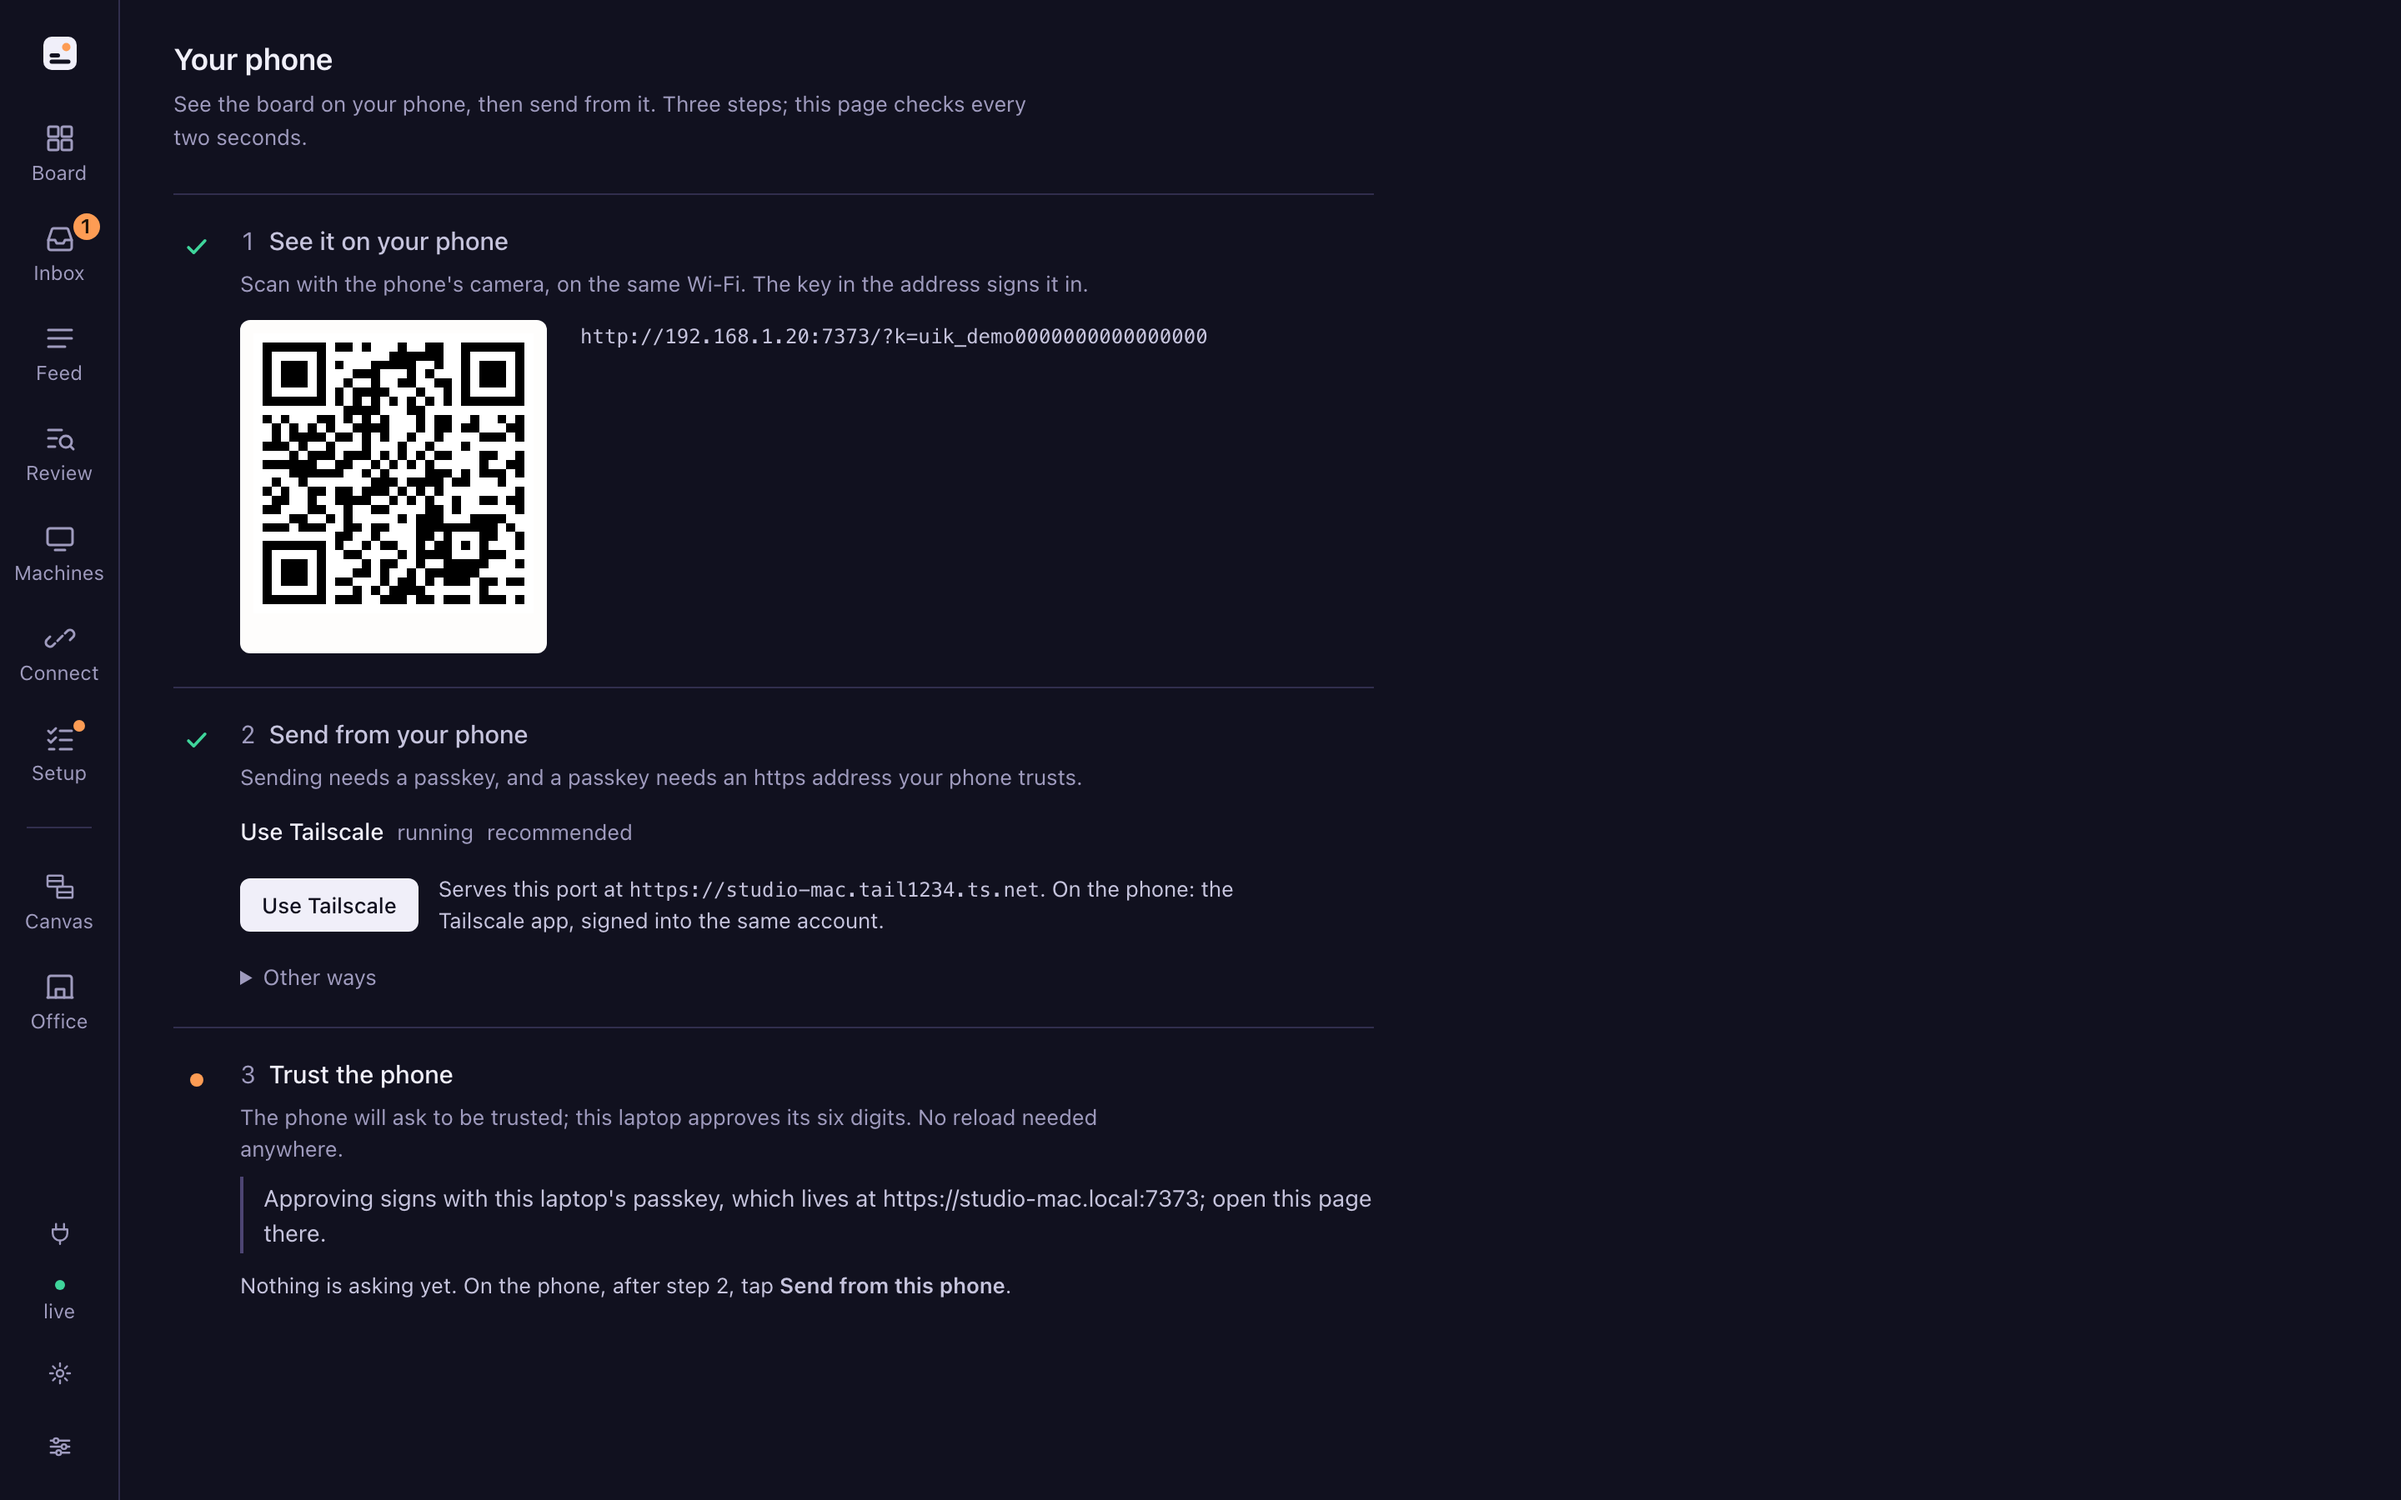
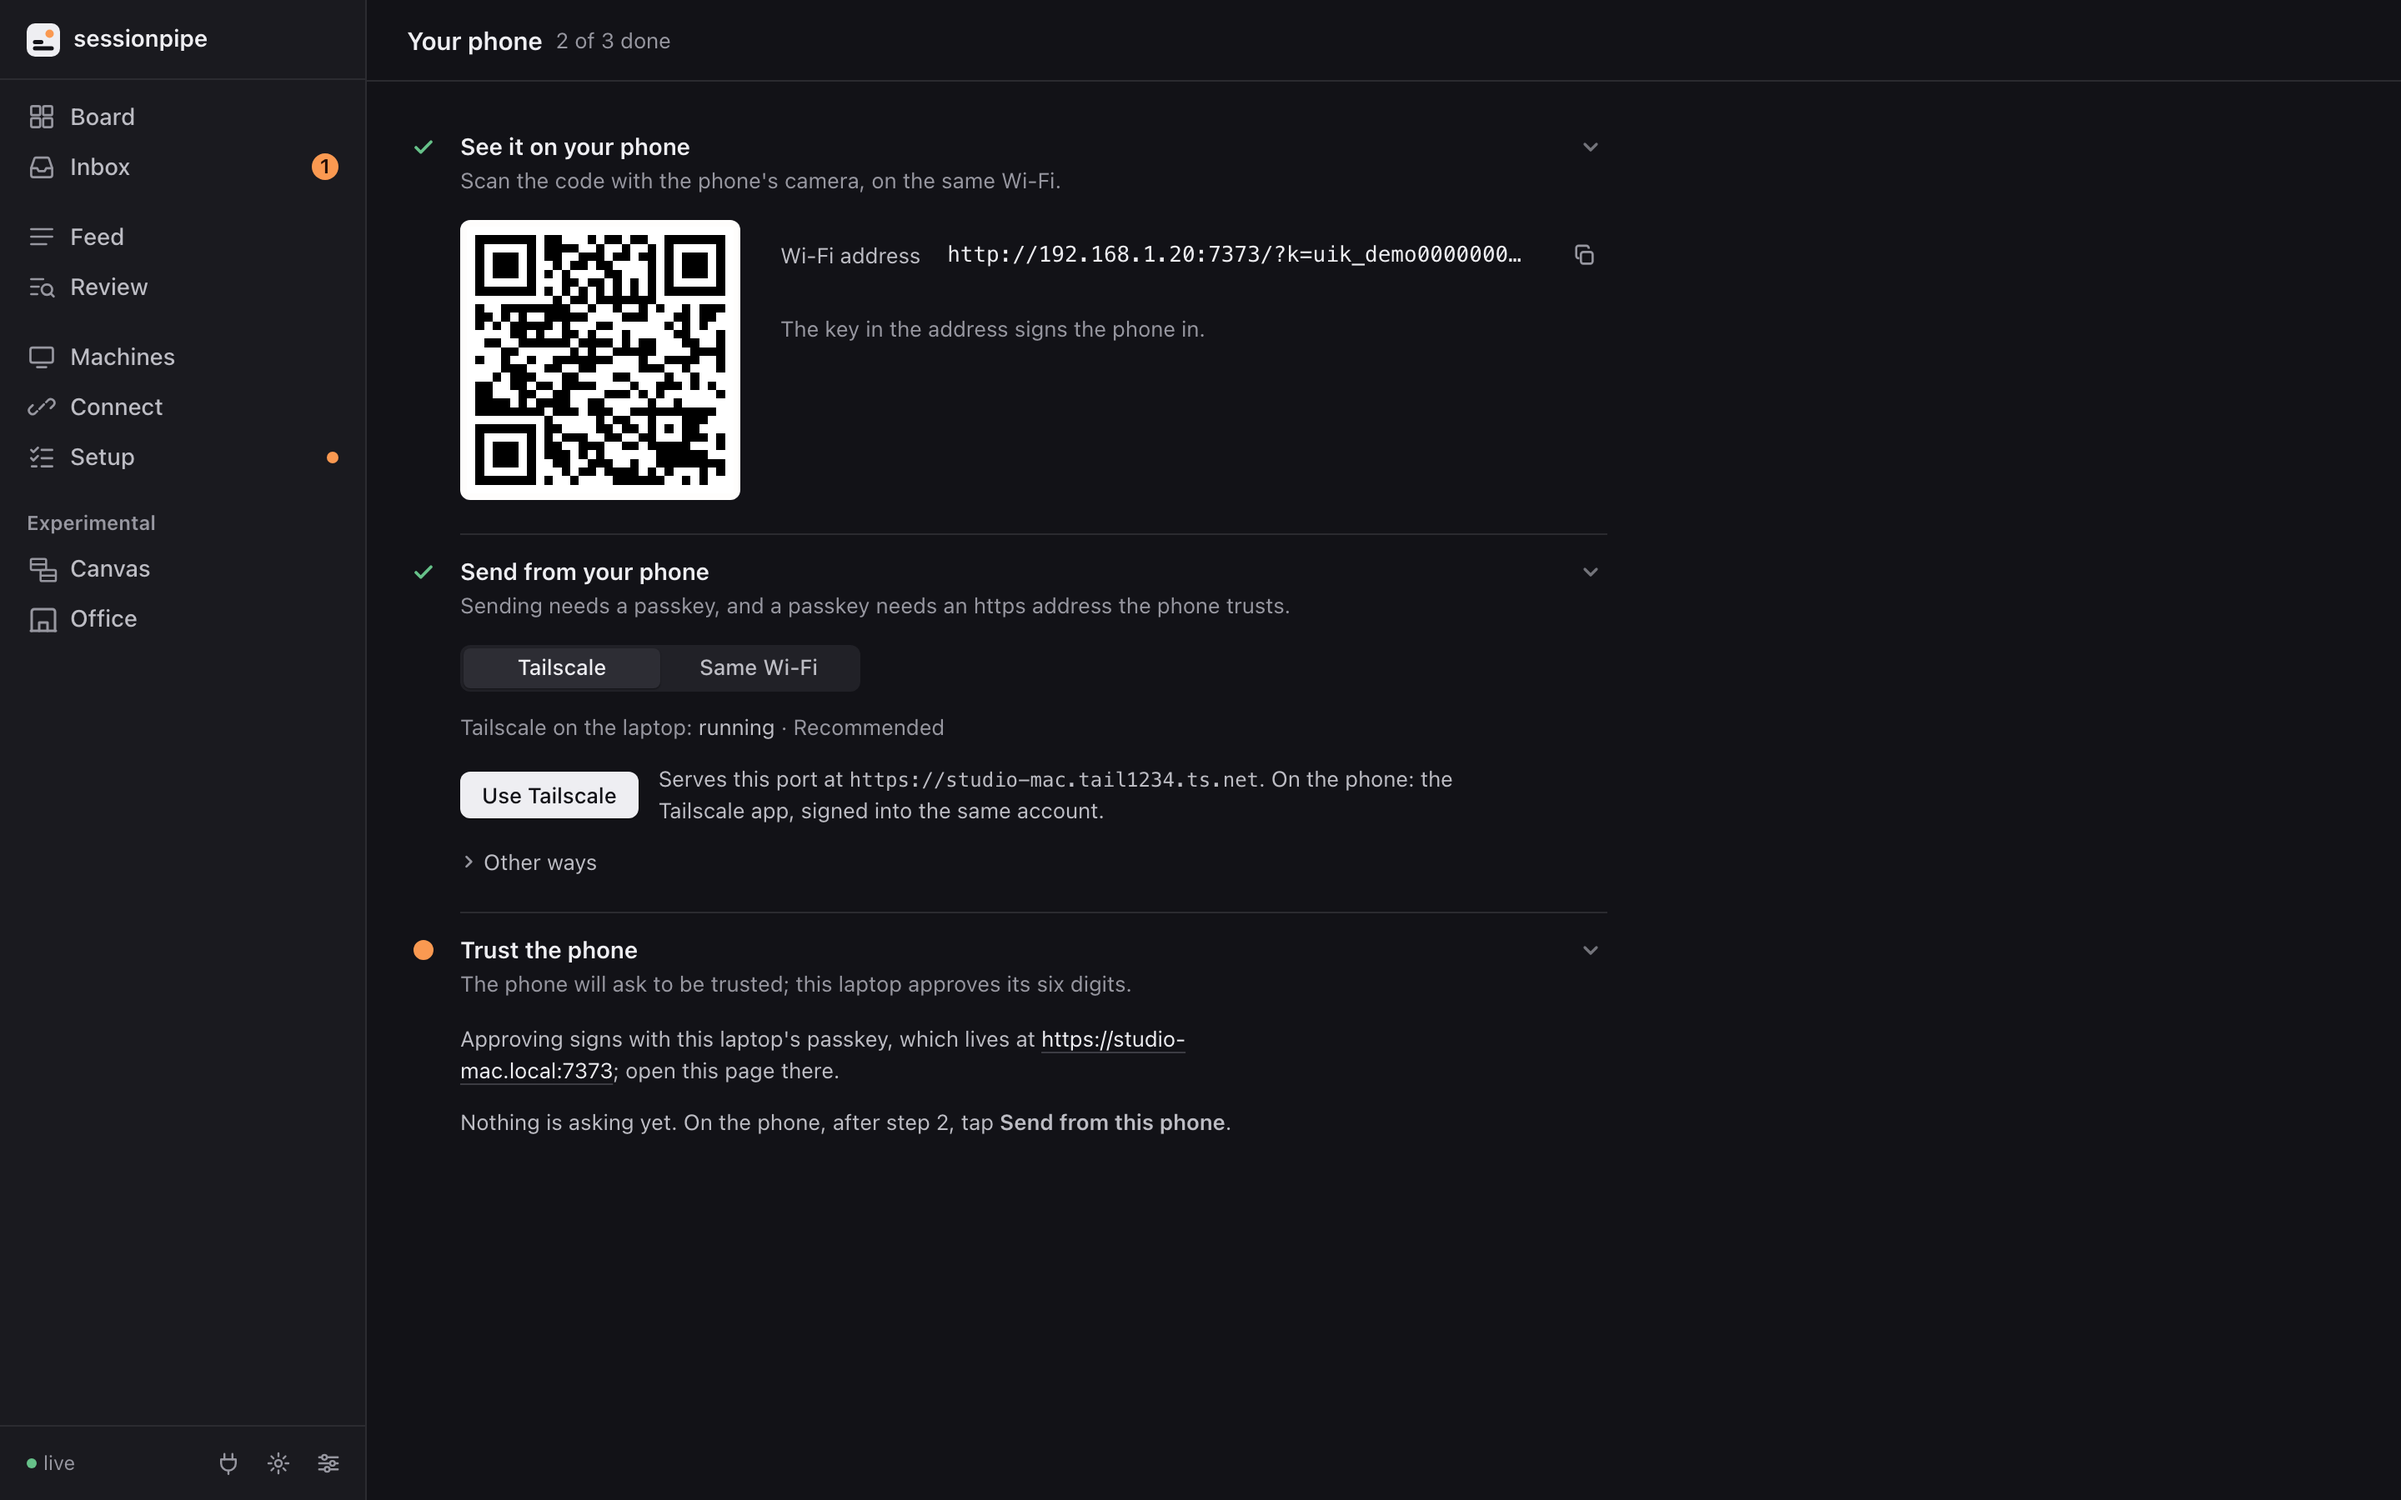
README: screenshots of the new UI, and the copy that names it (rows, the sidebar, right-click menus)
Every image in docs/screenshots is regenerated from --demo with shoot.mjs; the Review shot
finds its search field by its label, since the placeholder is now just "Search".

diff --git a/README.md b/README.md
@@ -43,8 +43,8 @@ repo; `npm run bundle:sync` refreshes them from a
 [sessionpipe-gui-themes](https://github.com/spacesheep-dev/sessionpipe-gui-themes)
 checkout beside this one. The npm package (`npx sessionpipe-gui`) follows once published.
 
-Nothing to install afterwards: the skins are in the appearance popover, the views on the
-rail, and the plugin under Plugins on the Views page, off until you turn it on:
+Nothing to install afterwards: the skins are in the appearance popover, the views in the
+sidebar, and the plugin under Plugins on the Views page, off until you turn it on:
 
 ```sh
 sessionpipe-gui extras list                  # the catalogue, every entry marked bundled
@@ -93,7 +93,7 @@ trusted, the daemon polls, a phone connects, a message comes back `delivered`.
 4. **Your phone**: the QR code and the steps to trust the CA on iPhone or Android.
 5. **Try it**: one message to a live session; green when it comes back `delivered`.
 
-*Skip setup* keeps the board as the front page; the rail keeps a *Setup* entry until the
+*Skip setup* keeps the board as the front page; the sidebar keeps a *Setup* entry until the
 steps are green. The setup routes answer only from this machine.
 
 ### Three ways to get data in
@@ -111,12 +111,20 @@ steps are green. The setup routes answer only from this machine.
 ![The board: needs you, working, idle; done collapsed](https://raw.githubusercontent.com/spacesheep-dev/sessionpipe-gui/main/docs/screenshots/board.png)
 
 Sessions grouped by state, in the order you would look: **needs you**, **working**,
-**stale**, **idle**, **done** (collapsed, with a count). A card is the title, where it is
-(machine, repo @ branch, model), what it is doing (the tool running now and for how long),
-and the last thing the assistant said. Subagents nest under their parent. Flags call out
+**stale**, **idle**, **done** (collapsed, with a count). A row is the title, one line under
+it (the command waiting for you, or the last thing the assistant said), where it runs
+(harness, machine, repo) and a few quiet counts: turns, tools, errors, how long ago. One
+mark says the state: a dot for needs you, a turning ring for working, a hollow ring for
+idle, a check for done. Subagents nest under their parent. Flags call out
 what is off: a slow tool, three errors in a row, the same tool on the same input three
 times, repeated compactions, a gap in the sequence. Filter by machine, harness or text;
 `⌘K` finds any session from anywhere.
+
+Every row, tab, message, machine and path has its own right-click menu with the actions
+that exist for it: open as a page or beside this one, allow or deny the prompt, show only
+its machine or harness, copy its link, id, folder or branch, forget it. `Shift+F10` or the
+context-menu key opens it from the keyboard; on a phone a long-press opens the same items
+as an action sheet.
 
 ### Session
 
@@ -154,8 +162,8 @@ around them in lanes: the browsers looking at this GUI, the accounts per harness
 machines, the repos, with hairlines for who runs where. Drag an account chip onto a
 machine to start a session there. The layout is kept by the receiver, so it is the same
 on every device. Canvas and Office ship with the GUI (their sources live in the
-[themes repo](https://github.com/spacesheep-dev/sessionpipe-gui-themes)); they sit on the
-rail under *experimental*, and `sessionpipe-gui view disable canvas` hides one.
+[themes repo](https://github.com/spacesheep-dev/sessionpipe-gui-themes)); they sit in the
+sidebar under *experimental*, and `sessionpipe-gui view disable canvas` hides one.
 
 ### Office
 
@@ -226,7 +234,9 @@ Appearance (System, Light, Dark), skin and text size are one click from the side
 neutrals with the [spacesheep.dev](https://spacesheep.dev) flame as the one accent, for
 *needs you*, in both schemes: it follows the appearance setting, which is why the pictures
 on this page come in a light and a dark version. **Paper** is warm paper and ink, light
-only. A skin installed from outside (`sessionpipe-gui skin add`) lists after them. Settings (`/settings`) holds the rest: Simple or Advanced, the page to open on,
+only. A skin installed from outside (`sessionpipe-gui skin add`) lists after them.
+
+Settings (`/settings`) holds the rest: Simple or Advanced, the page to open on,
 the tier lens, notifications and sounds, the keymap, the installed views, skins and
 plugins, what is on disk, and the receiver's own numbers.
 
